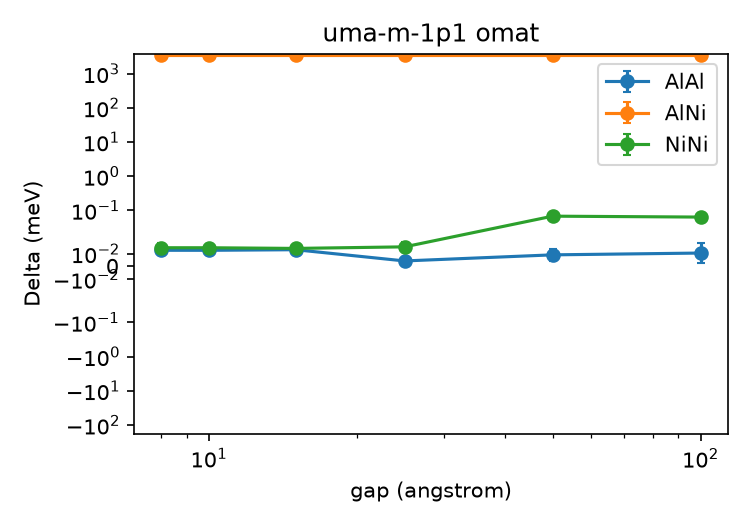
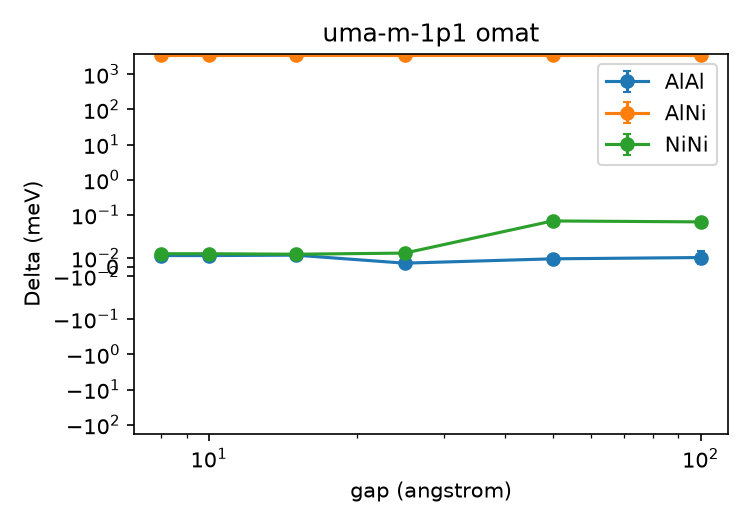
Rerun the UMA-M-1.1 null tests in float32 with the cache fix (Bridges-2 V100-32): N1 is non-zero, tau 0.043 meV (omat) and 3.62 meV (omol), no verdict changes; correct the report text

diff --git a/status-wip/README.md b/status-wip/README.md
@@ -216,8 +216,9 @@ this column was always 0, because the repeated call was an ASE cache hit.
 
 ## 8. Limits, stated plainly
 
-- UMA-M ran in float32, so its tolerance is larger (about 5 meV on the molecule task). It also ran on a cloud GPU
-  while UMA-S ran in float64, so any UMA-M versus UMA-S difference is confounded with precision.
+- UMA-M ran in float32, so its tolerance is larger than that of the float64 models (0.043 meV on the materials task and 3.6 meV on the
+  molecule task, after the rerun of 2026-10-11). It also ran on a cloud GPU while UMA-S ran in float64, so any UMA-M versus UMA-S
+  difference is confounded with precision.
 - The version number is read only at `escn_moe.py` line 149 in fairchem 2.21.0, the composition mean, so the swap
   changes nothing else.
 - Geometries are unrelaxed and use one specific shared cell, so the values are for this setup only. The interval is
@@ -226,10 +227,14 @@ this column was always 0, because the repeated call was an ASE cache hit.
   the ASE cache fix, with 27 repeats each (the padding test N4 now also uses pads of 100 and 230 angstrom). The repeat test
   N1 is now a real recomputation: bit-identical for ORB-v3 and every UMA label, and different by at most 5.7e-14 eV for
   MACE. sigma_E is at most 0.000005 meV, so tau stays at the 0.001 meV floor, and no verdict, interval or flatness result
-  changed (the summary tables are byte-identical to before). UMA-M (float32, on a cloud GPU) was not rerun: its null file
-  still has the cache-hit N1, which lowers its sigma_E by at most about 4 percent (an estimate); raising every tau above
-  the floor by 10 percent changes no verdict. The null tests of UMA-M do not cover float32 bias or the coordinate range of
-  gaps of 50 angstrom and more.
+  changed (the summary tables are byte-identical to before). UMA-M (float32) was rerun on 2026-10-11 on a V100-32 (job 49043042, 7 min 29 s, 27 repeats each,
+  the repeat test N1 now a real recomputation). Unlike the float64 models, it is not bit-identical on a repeat: the root mean square of
+  N1 is 0.0097 meV on `omat` and 0.71 meV on `omol`. sigma_E is 0.0086 meV (`omat`, before 0.0060) and 0.725 meV (`omol`, before
+  0.985), so tau is 0.043 and 3.62 meV (before 0.030 and 4.92). The earlier estimate that the cache bug changed the UMA-M sigma_E by
+  at most about 4 percent was wrong: the change is +44 percent and -26 percent. N2 and N3 also differ between the two runs; the cause
+  was not tested (a different GPU and a real repeat test are both possible). No verdict, flatness or comparison changed: only the
+  tolerance column of the 36 UMA-M rows of `results/summary.csv` changed. The UMA-M energies (21 runs) come from the cloud GPU and were
+  not rerun. The null tests of UMA-M do not cover float32 bias or the coordinate range of gaps of 50 angstrom and more.
 - The comparison with the paper uses the shaken mean. With the ideal geometry instead, the ratios are 0.60 (ORB),
   5.06 (UMA-S-1.1 materials), 1.22 (UMA-S-1.1 molecules), 2.98 (UMA-M-1.1 materials) and 0.82 (UMA-M-1.1 molecules).
 - ORB gives -4.8e-3 meV for the ideal Ni + Ni pair at every gap, 4.8 times the 0.001 meV floor. This is not

diff --git a/audit/README.md b/audit/README.md
@@ -29,7 +29,7 @@ foreach ($m in "uma-s-1p1", "uma-s-1p2") {
     & $py1 run_audit.py --family uma --model $m --task $t
   }
 }
-# UMA-M needs a 24 GB GPU and was run in float32 on a rented machine, on both tasks:
+# UMA-M needs a 24 GB GPU and was run in float32 on a rented machine, on both tasks (its null tests were rerun on Bridges-2, see below):
 #   nulls.py / run_audit.py --family uma --model uma-m-1p1 --task omat --dtype float32
 #   nulls.py / run_audit.py --family uma --model uma-m-1p1 --task omol --dtype float32
 
@@ -86,3 +86,7 @@ and UMA-S, and `slurm/rerun_orb.sh` (an L40S job: ORB's graph builder, NVIDIA Wa
 capability 7.5 or higher) runs ORB-v3. Both write the new files to `shared/runs/<job>/work/results`, not into the repository, so
 a later sync cannot overwrite them. The UMA weights are read from a private folder (the model is gated). The run of
 2026-10-09 (jobs 48975723 and 48975738) took 7 min 41 s and 5 min 30 s; its numbers are in `status-wip/README.md`.
+
+The null tests of UMA-M-1.1 (float32, tasks `omat` and `omol`) are rerun by `slurm/rerun_uma_m.sh` (a V100-32 job, at most 3 SU), which
+also writes to `shared/runs/<job>/work/results`. The 10.4 GiB checkpoint is read from the private folder. The run of 2026-10-11 (job
+49043042) took 7 min 29 s; its numbers are in `status-wip/README.md`.
